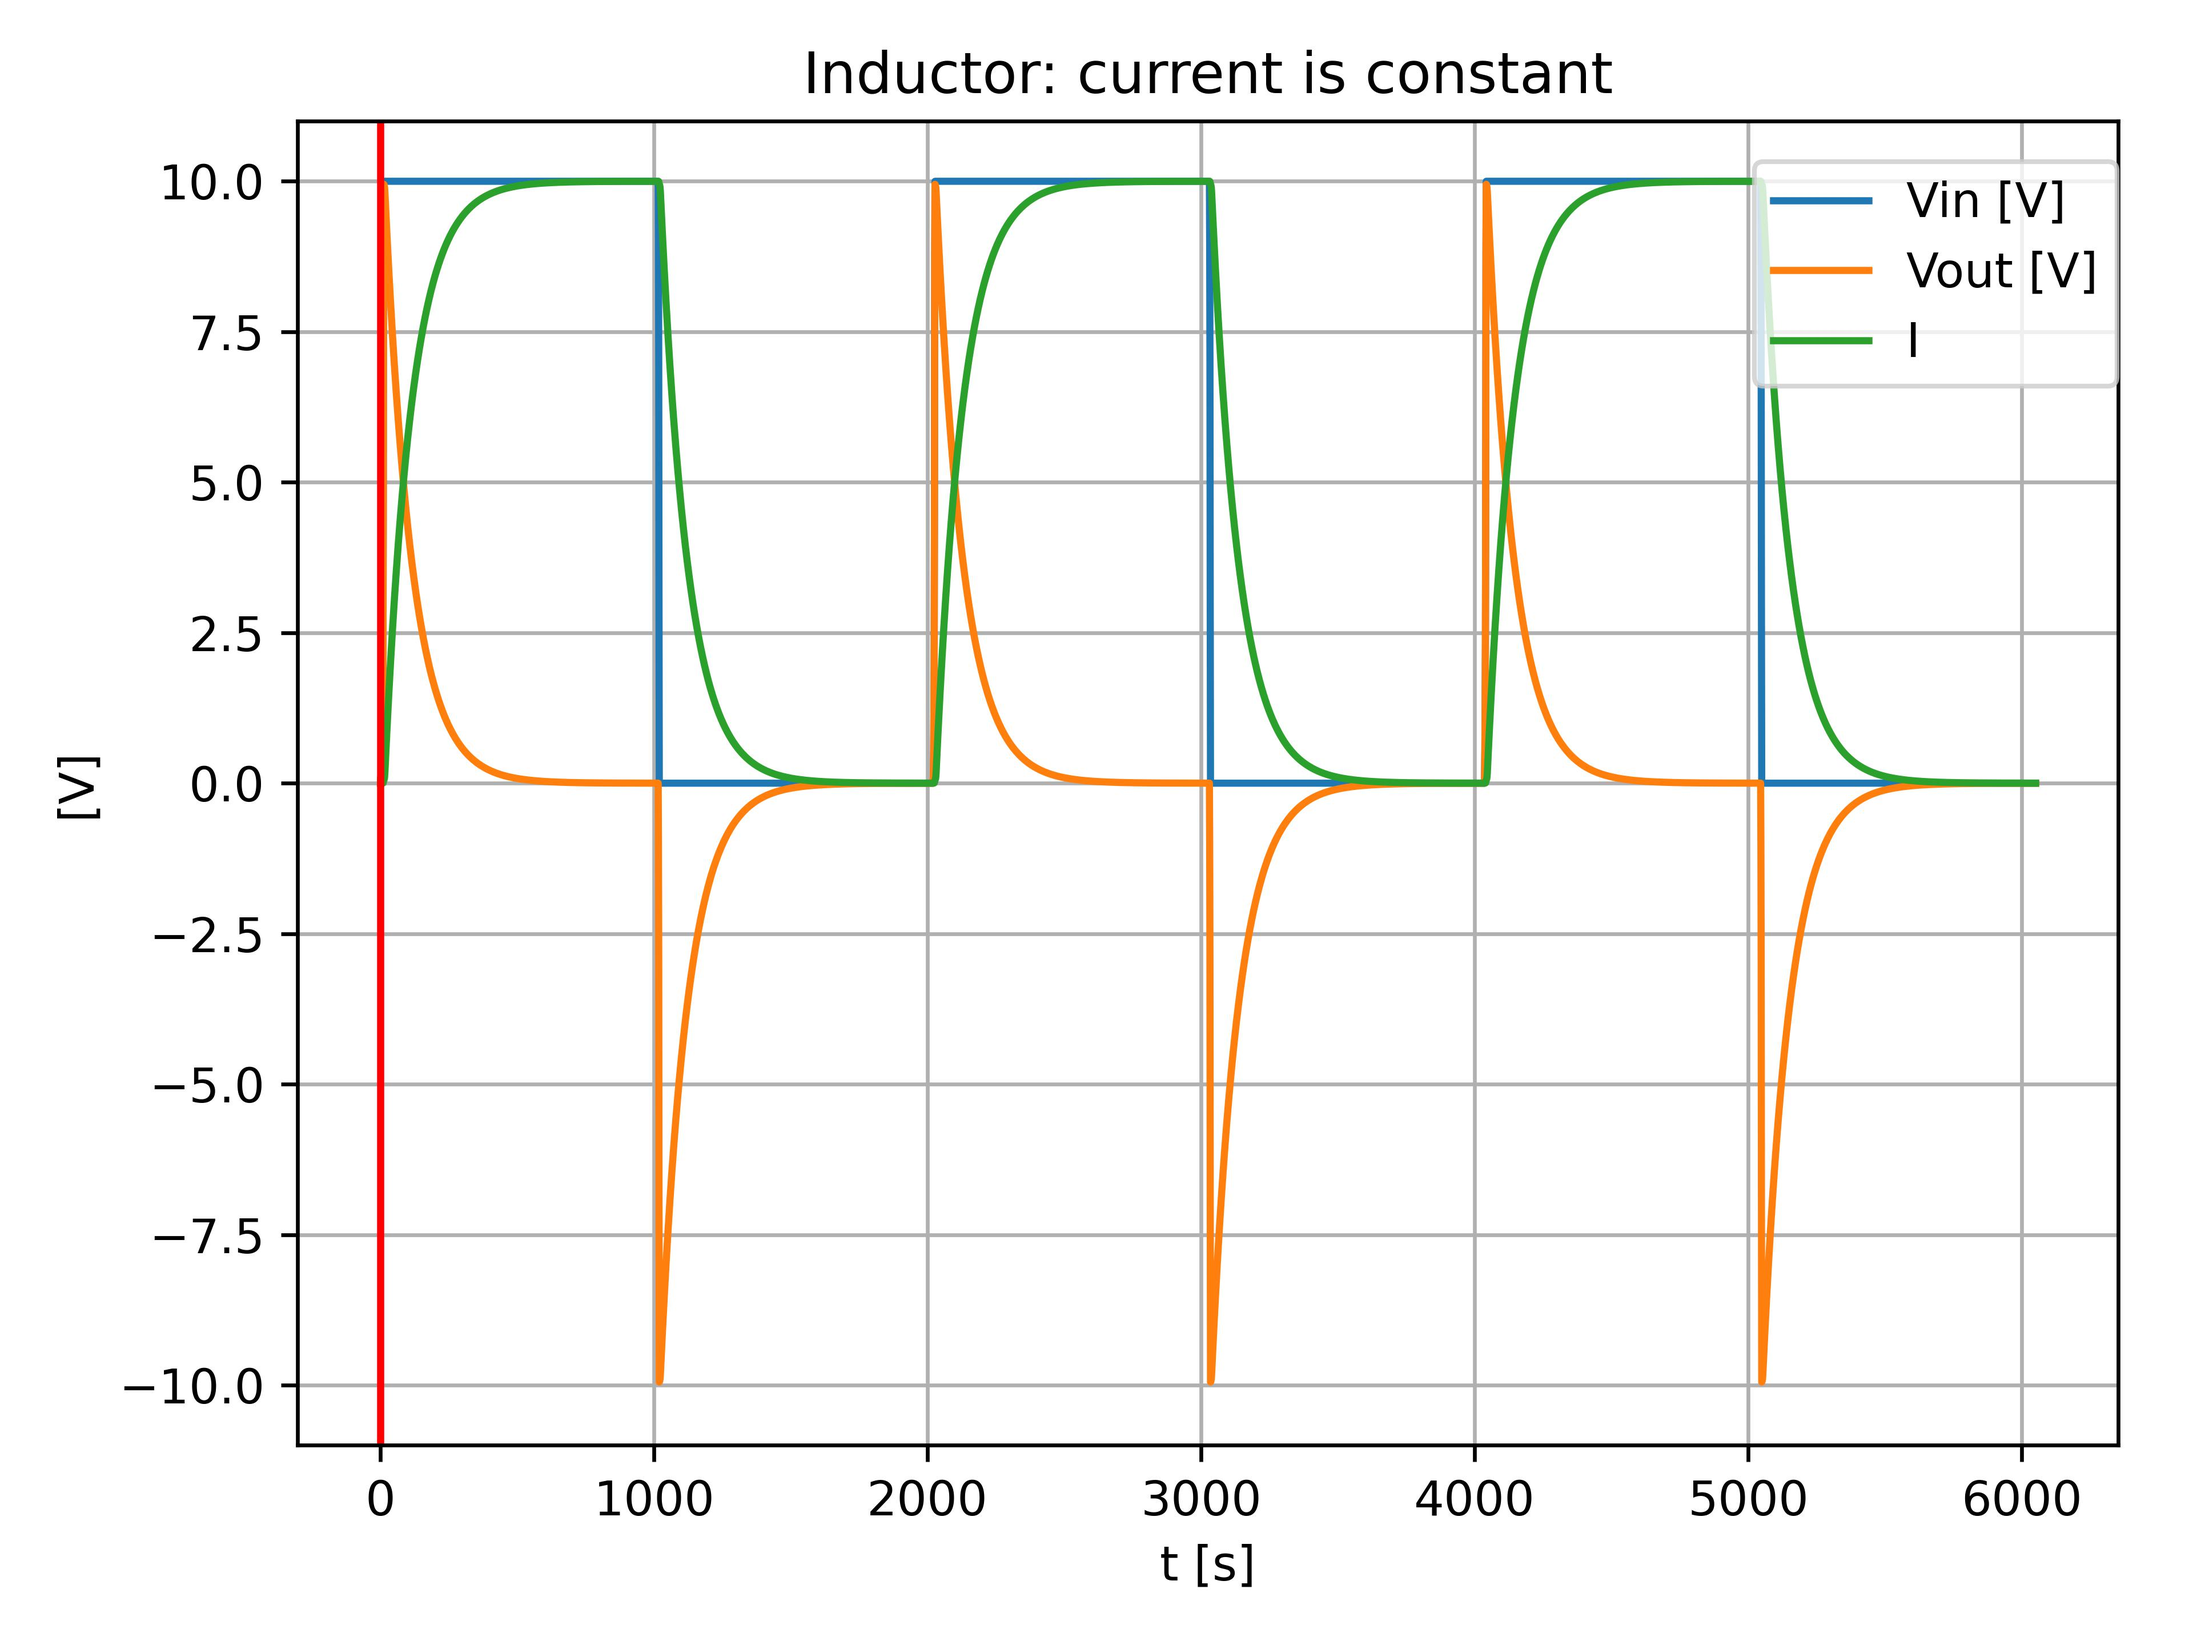
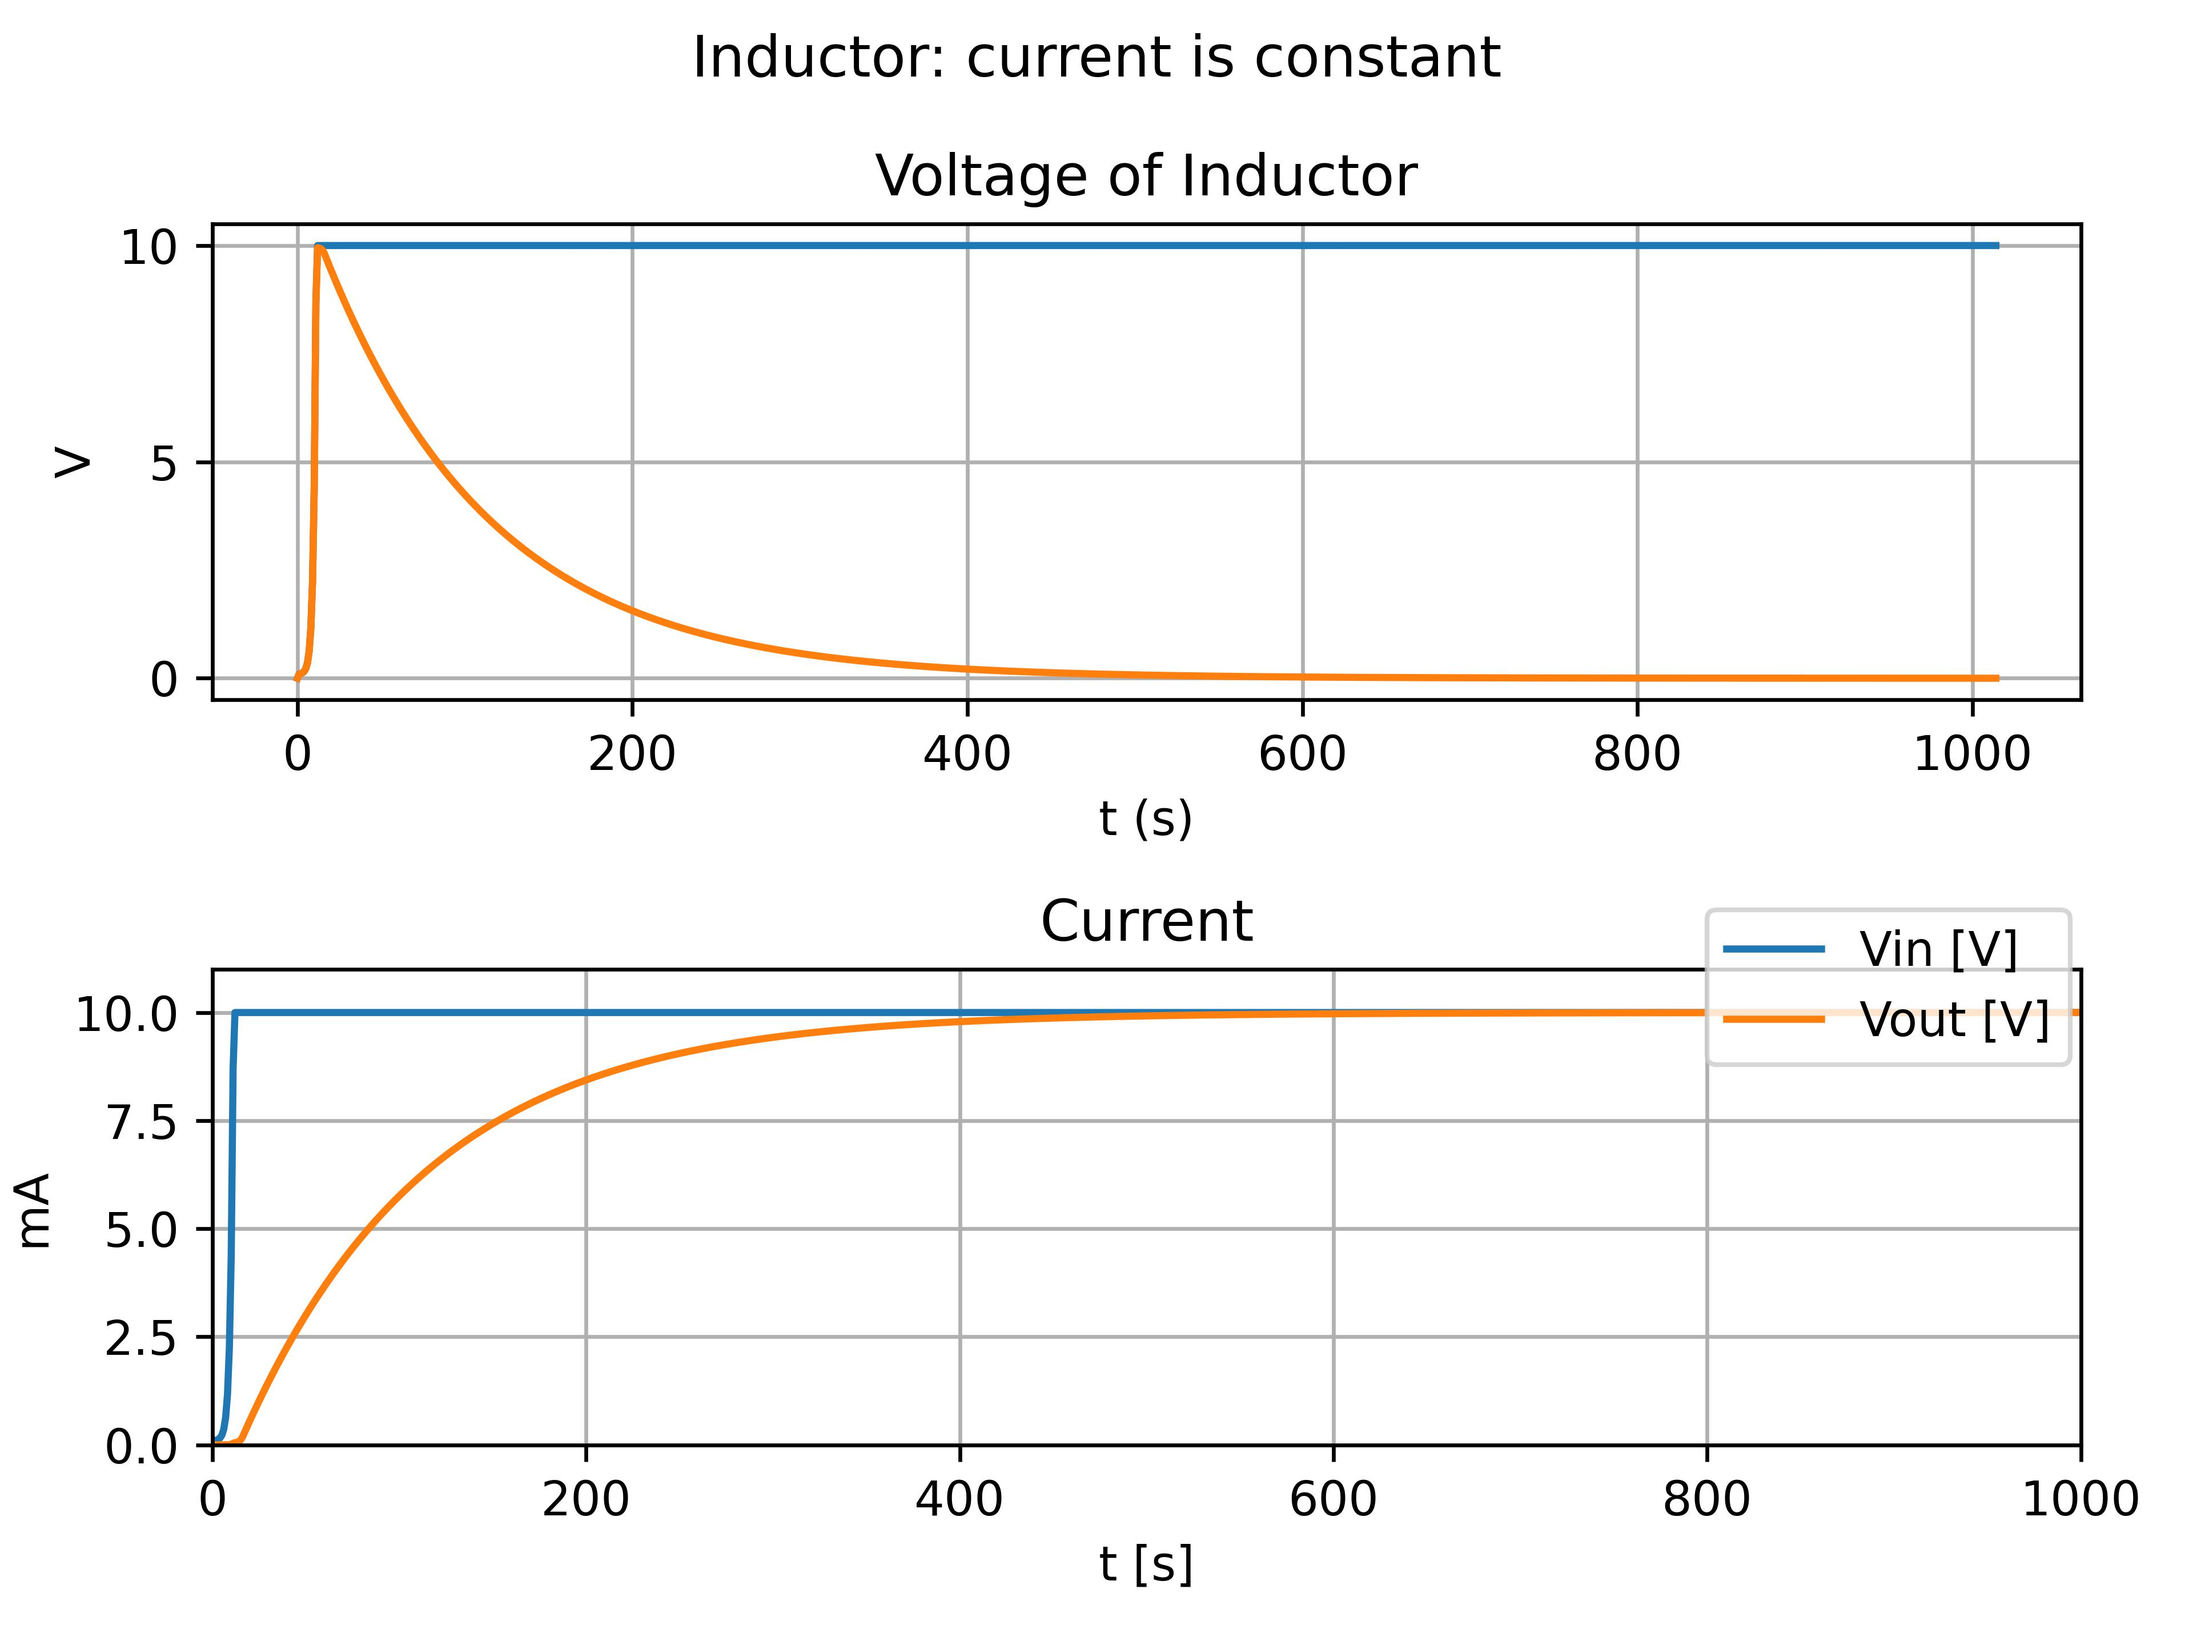
Fixed the graphs

diff --git a/main.py b/main.py
@@ -151,7 +151,7 @@ def RCCircuit():
 
     simulator = circuit.simulator(temperature=25, nominal_temperature=25)
     step_time = 10@u_us
-    analysis = simulator.transient(step_time=step_time, end_time=source.period*3)
+    analysis = simulator.transient(step_time=step_time, end_time=source.period * 3)
 
     # Let define the theoretical output voltage.
     def out_voltage(t, tau):
@@ -167,19 +167,27 @@ def RCCircuit():
     print('tau {0} = {1}'.format(element_type, tau.canonise().str_space()))
     print('tau measured {0} = {1:.1f} ms'.format(element_type, tau_measured * 1000))
 
-    title = "Capacitor: voltage is constant"
     plt.figure()
-    plt.title(title)
-    plt.grid()
+    fig, plots = plt.subplots(2, 1)
+    plt.suptitle("Capacitor: voltage is constant")
     current_scale = 1000
-    plt.plot(analysis['in'])
-    plt.plot(analysis['out'])
+    plots[0].set_title("Voltage of Capacitor")
+    plots[0].grid()
+    plots[0].plot(analysis['in'])
+    plots[0].plot(analysis['out'])
+    # plots[1].set_xlim(0, 1000)
+    plots[1].set_ylim(-0.01, 11)
+    plots[0].set_xlabel('t (s)')
+    plots[0].set_ylabel('V')
     # Fixme: resistor current, scale
-    plt.plot(((analysis['in'] - analysis.out)/circuit['R1'].resistance) * current_scale)
-    plt.axvline(x=float(tau), color='red')
-    plt.ylim(-11, 11)
-    plt.xlabel('t [s]')
-    plt.ylabel('[V]')
+    plots[1].set_title("Current")
+    plots[1].grid()
+    plots[1].plot(analysis['in'])
+    plots[1].plot(((analysis['in'] - analysis.out)/circuit['R1'].resistance) * current_scale)
+    # plots[1].set_xlim(0, 1000)
+    plots[1].set_ylim(-0.01, 11)
+    plots[1].set_xlabel('t [s]')
+    plots[1].set_ylabel('mA')
     plt.legend(('Vin [V]', 'Vout [V]', 'I'), loc=(.8,.8))
 
     plt.tight_layout()
@@ -212,7 +220,7 @@ def RLCircuit():
 
     simulator = circuit.simulator(temperature=25, nominal_temperature=25)
     step_time = 10@u_us
-    analysis = simulator.transient(step_time=step_time, end_time=source.period*3)
+    analysis = simulator.transient(step_time=step_time, end_time=source.period * 0.5)
 
     # Let define the theoretical output voltage.
     def out_voltage(t, tau):
@@ -227,17 +235,26 @@ def RLCircuit():
     print('tau measured {0} = {1:.1f} ms'.format(element_type, tau_measured * 1000))
 
     plt.figure()
-    plt.title("Inductor: current is constant")
-    plt.grid()
+    fig, plots = plt.subplots(2, 1)
+    plt.suptitle("Inductor: current is constant")
     current_scale = 1000
-    plt.plot(analysis['in'])
-    plt.plot(analysis['out'])
+    plots[0].set_title("Voltage of Inductor")
+    plots[0].grid()
+    plots[0].plot(analysis['in'])
+    plots[0].plot(analysis['out'])
+    plots[1].set_xlim(0, 1000)
+    plots[1].set_ylim(-0.01, 11)
+    plots[0].set_xlabel('t (s)')
+    plots[0].set_ylabel('V')
     # Fixme: resistor current, scale
-    plt.plot(((analysis['in'] - analysis.out)/circuit['R1'].resistance) * current_scale)
-    plt.axvline(x=float(tau), color='red')
-    plt.ylim(-11, 11)
-    plt.xlabel('t [s]')
-    plt.ylabel('[V]')
+    plots[1].set_title("Current")
+    plots[1].grid()
+    plots[1].plot(analysis['in'])
+    plots[1].plot(((analysis['in'] - analysis.out)/circuit['R1'].resistance) * current_scale)
+    plots[1].set_xlim(0, 1000)
+    plots[1].set_ylim(-0.01, 11)
+    plots[1].set_xlabel('t [s]')
+    plots[1].set_ylabel('mA')
     plt.legend(('Vin [V]', 'Vout [V]', 'I'), loc=(.8,.8))
 
     plt.tight_layout()
